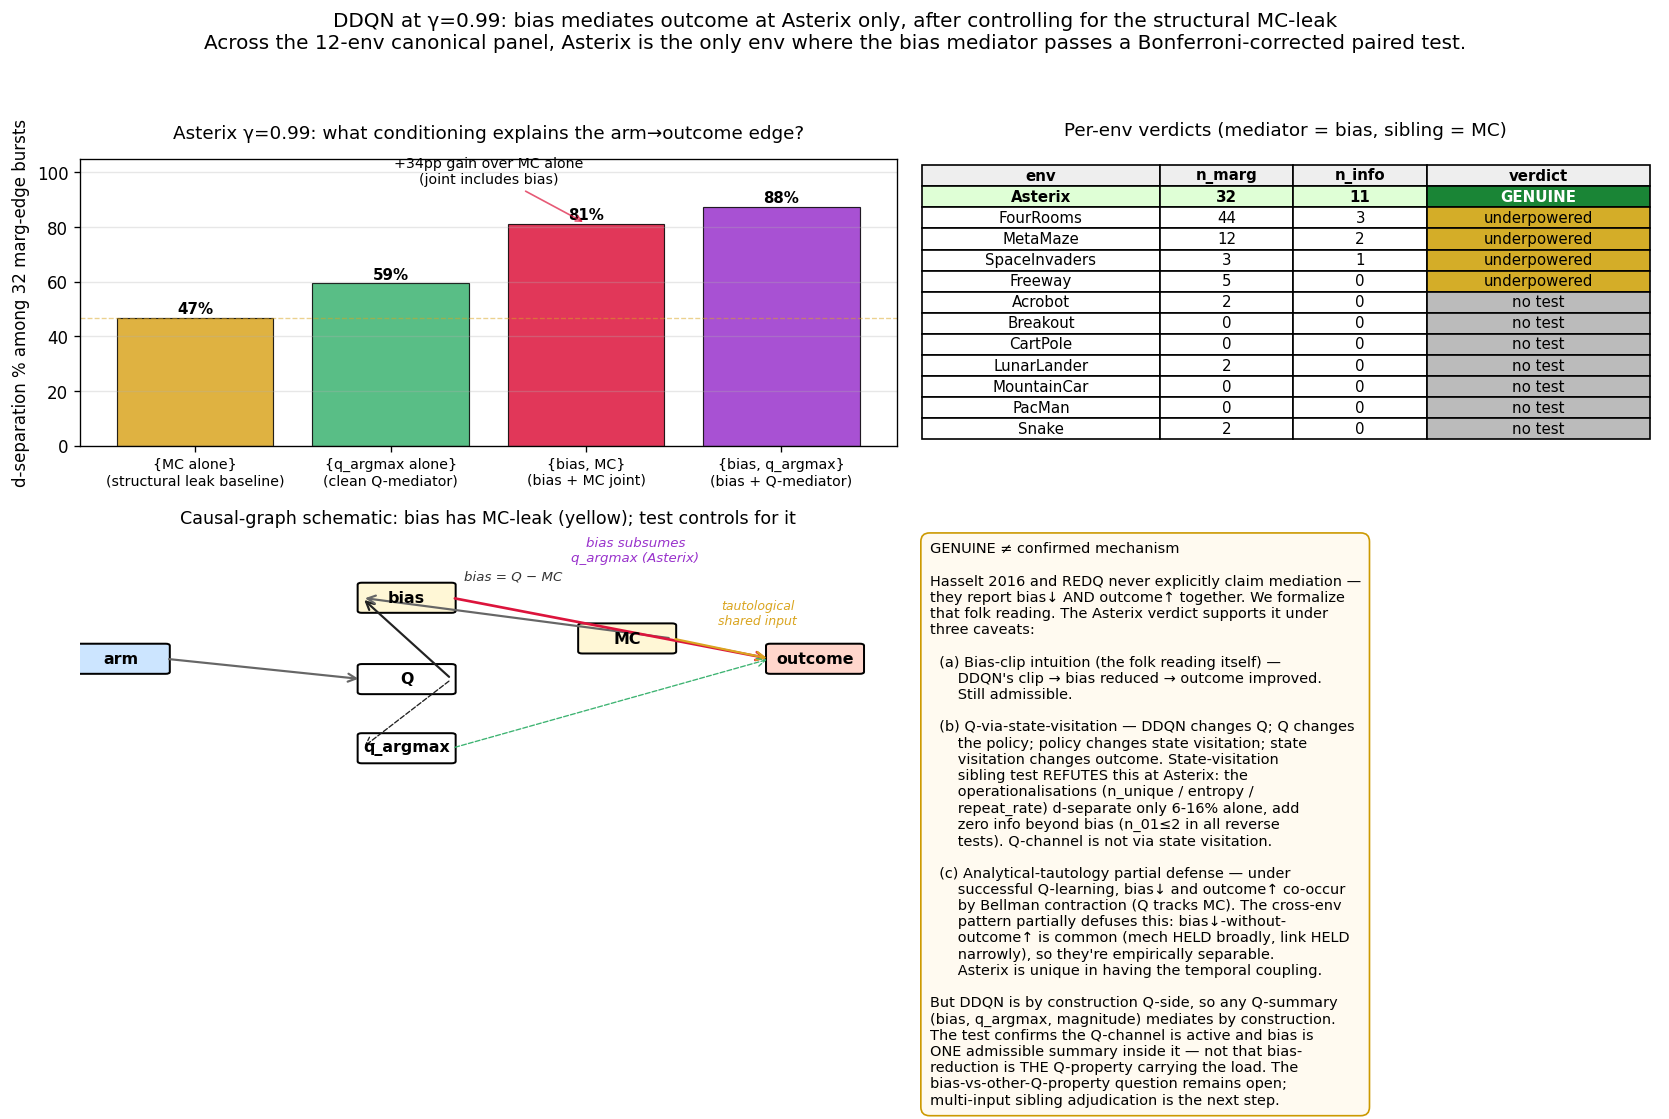
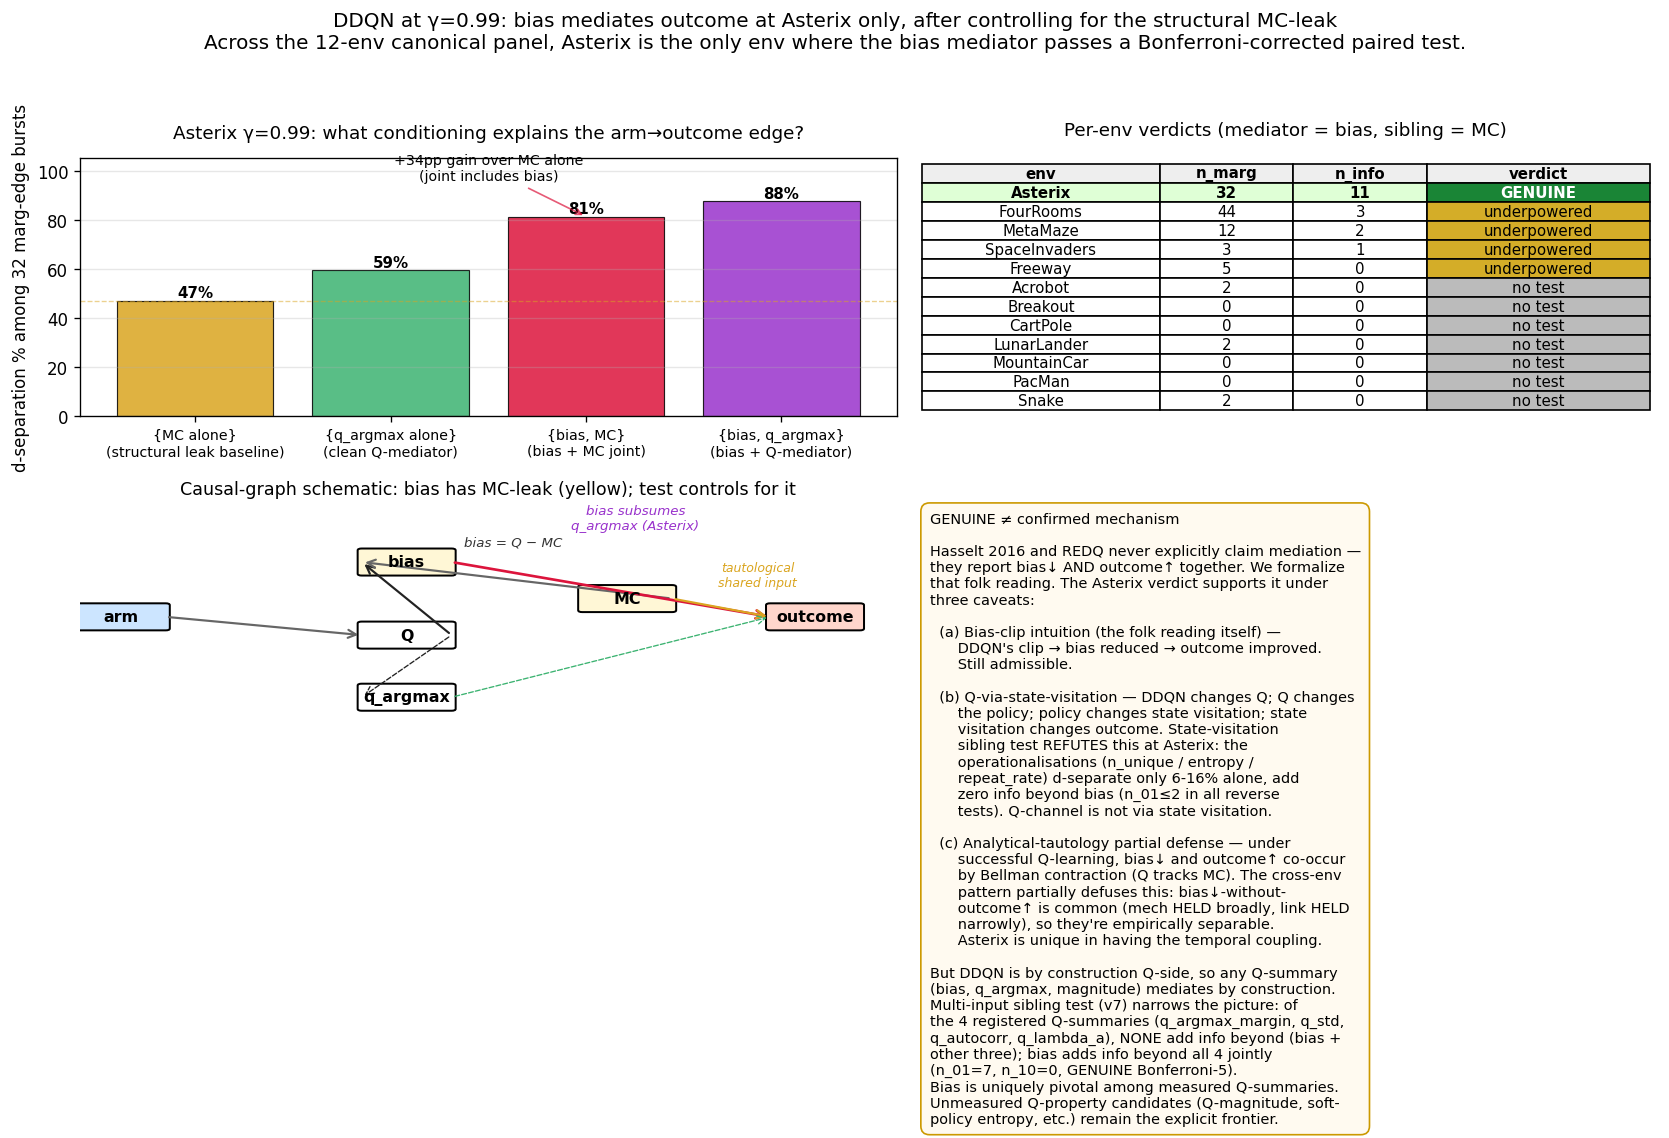
mediator_leak_adjudication v7: multi-input sibling extension; bias uniquely pivotal among Q-summaries at Asterix γ=0.99.
`sibling_per_burst` now accepts `str | tuple[str, ...]`. Single-string
path preserved (depth-1 sibling vs depth-2 joint); multi-input
path runs sibling-only at depth-k and joint at depth-(k+1).

Empirical result at Asterix γ=0.99 (Bonferroni-5, min_n_per_burst=15):
bias added to joint {q_argmax_margin, q_action_std, q_autocorr, q_lambda_a}
jumps d-sep 66% → 88% (n_01=7, n_10=0, exact-binomial p=0.008) GENUINE.
Each individual q_i added to (bias + 3 others) produces 0-1 discordant
pairs across 32 marg-edge bursts — empirical absence of incremental
signal, mirroring the state-visitation refutation pattern.

diff --git a/papers/g099_mediation/scripts/gen_q_summary_multi_input_test.py b/papers/g099_mediation/scripts/gen_q_summary_multi_input_test.py
@@ -1,0 +1,199 @@
+"""Multi-input sibling adjudication: bias vs other Q-summaries at Asterix γ=0.99.
+
+Closes the bias-vs-other-Q-property question left open after the
+state-visitation sibling test refuted caveat (b). The state-vis
+test showed the channel is Q-side; this test asks "which Q-property
+inside the Q-side carries the load?"
+
+Two passes:
+
+**Pass 1: bias against the JOINT Q-summary set**
+  mediator = bias
+  sibling  = (q_argmax_margin, q_action_std, q_autocorr, q_lambda_a)
+
+  GENUINE → bias adds info beyond all four other Q-summaries
+            jointly → bias is uniquely informative among Q-summaries.
+  LEAK    → bias is one Q-summary among many equivalents; the joint
+            of the others already captures everything bias provides.
+
+**Pass 2: each individual Q-summary against (bias + the other three)**
+  For q_i ∈ {q_argmax_margin, q_action_std, q_autocorr, q_lambda_a}:
+    mediator = q_i
+    sibling  = (bias, *(others without q_i))
+
+  GENUINE → q_i adds info beyond bias and the other Q-summaries →
+            q_i is uniquely informative.
+  LEAK    → q_i is subsumed by (bias + others).
+
+If Pass 1 = LEAK and Pass 2 = LEAK for all q_i, no single
+Q-summary among {bias, q_argmax, q_std, q_autocorr, q_lambda_a}
+is uniquely load-bearing; they're a redundant cluster.
+
+If Pass 1 = GENUINE and Pass 2 = LEAK for all q_i, bias is the
+unique pivotal Q-summary; other Q-summaries are redundant given
+bias.
+
+Multiplicity: 5 tests (1 + 4), Bonferroni-corrected.
+
+Depth budget: at Asterix γ=0.99, 60 cells/burst → depth-5 PC has
+df ≈ 52 (n − 3 − 4). `min_n_per_burst=15` keeps Fisher-z stable.
+"""
+from __future__ import annotations
+import sys
+from pathlib import Path
+import numpy as np
+import polars as pl
+import matplotlib
+matplotlib.use('Agg')
+import matplotlib.pyplot as plt
+
+SCRIPT_DIR = Path(__file__).parent
+sys.path.insert(0, str(SCRIPT_DIR))
+from _common import load_g099_canonical_panel
+
+from corroborate.analyses.diagnostic.mediator_leak_adjudication import (
+    LeakAdjudication, mediator_leak_adjudication,
+)
+
+
+Q_SUMMARIES = (
+    ('q_argmax_margin', 'q_argmax_margin_per_burst'),
+    ('q_action_std',    'q_action_std_per_burst'),
+    ('q_autocorr',      'q_autocorr_per_burst'),
+    ('q_lambda_a',      'q_lambda_a_per_burst'),
+)
+BIAS_TAG = 'bias'
+BIAS_COL = 'mean_per_state_cumulative_bias_per_burst'
+OUTCOME = 'mc_return__mean_axis_-1'
+N_MULTIPLICITY = 5  # 1 main + 4 sibling-direction tests
+
+OUT_TXT = SCRIPT_DIR.parent / 'figures' / 'report_q_summary_multi_input_test.txt'
+OUT_PNG = SCRIPT_DIR.parent / 'figures' / 'report_q_summary_multi_input_test.png'
+
+
+def _row(s, label: str) -> str:
+    return (
+        f'{label:48s} n_marg={s.n_marginal_edges:3d}  '
+        f'dsep_sib={s.dsep_sibling_only:5.1f}%  '
+        f'dsep_joint={s.dsep_joint:5.1f}%  '
+        f'n01={s.n_discordant_joint_only:2d}  '
+        f'n10={s.n_discordant_sibling_only:2d}  '
+        f'z={s.z_mcnemar:+5.2f}  '
+        f'→ {s.disposition.name}'
+    )
+
+
+def main() -> None:
+    df = load_g099_canonical_panel()
+    df_ast = df.filter(pl.col('env_name') == 'Asterix-MinAtar')
+    print(f'panel: {df.height} cells; Asterix-MinAtar: {df_ast.height} cells')
+
+    lines: list[str] = []
+    lines.append('# Multi-input Q-summary adjudication at Asterix γ=0.99')
+    lines.append(f'# Multiplicity: {N_MULTIPLICITY} (Bonferroni)')
+    lines.append('# min_n_per_burst = 15 (depth budget for 4-5 conditioners)')
+    lines.append('')
+    panel_data: list[tuple[str, float, float, int, int, float, LeakAdjudication]] = []
+
+    # ─── Pass 1: bias vs joint {q_argmax, q_std, q_autocorr, q_lambda_a} ───
+    lines.append('## Pass 1: bias added to joint Q-summary set')
+    lines.append('# GENUINE → bias is uniquely informative among Q-summaries')
+    lines.append('# LEAK    → bias is one Q-summary among many equivalents')
+    lines.append('')
+    q_tuple = tuple(c for _, c in Q_SUMMARIES)
+    res = mediator_leak_adjudication.fn(
+        df, arm_field='arm_key',
+        mediator_per_burst=BIAS_COL,
+        sibling_per_burst=q_tuple,
+        outcome_per_burst=OUTCOME,
+        stratify_by=('env_name',),
+        min_n_per_burst=15,
+        n_strata_for_multiplicity=N_MULTIPLICITY,
+    )
+    s = next(x for x in res.per_stratum if x.stratum_id[0] == 'Asterix-MinAtar')
+    lines.append(_row(s, f'bias | (q_argmax, q_std, q_autocorr, q_lambda_a)'))
+    panel_data.append((
+        'bias | {4 Q-summaries}',
+        s.dsep_sibling_only, s.dsep_joint,
+        s.n_discordant_joint_only, s.n_discordant_sibling_only,
+        s.z_mcnemar, s.disposition,
+    ))
+
+    # ─── Pass 2: each Q-summary vs (bias + the other three) ───
+    lines.append('')
+    lines.append('## Pass 2: each Q-summary added to (bias + the other three)')
+    lines.append('# GENUINE → that Q-summary is uniquely informative')
+    lines.append('# LEAK    → that Q-summary is subsumed by (bias + others)')
+    lines.append('')
+    for tag, col in Q_SUMMARIES:
+        others = tuple(c for t, c in Q_SUMMARIES if t != tag)
+        sib = (BIAS_COL,) + others
+        res2 = mediator_leak_adjudication.fn(
+            df, arm_field='arm_key',
+            mediator_per_burst=col,
+            sibling_per_burst=sib,
+            outcome_per_burst=OUTCOME,
+            stratify_by=('env_name',),
+            min_n_per_burst=15,
+            n_strata_for_multiplicity=N_MULTIPLICITY,
+        )
+        s2 = next(x for x in res2.per_stratum if x.stratum_id[0] == 'Asterix-MinAtar')
+        label = f'{tag} | (bias + {len(others)} other Q-summaries)'
+        lines.append(_row(s2, label))
+        panel_data.append((
+            f'{tag} | (bias + 3 others)',
+            s2.dsep_sibling_only, s2.dsep_joint,
+            s2.n_discordant_joint_only, s2.n_discordant_sibling_only,
+            s2.z_mcnemar, s2.disposition,
+        ))
+
+    txt = '\n'.join(lines)
+    print(txt)
+    OUT_TXT.write_text(txt + '\n')
+    print(f'\nsaved text → {OUT_TXT.name}')
+
+    # ─── figure ───
+    fig, ax = plt.subplots(figsize=(13, 6.5))
+    labels = [d[0] for d in panel_data]
+    sib_alone = [d[1] for d in panel_data]
+    joint = [d[2] for d in panel_data]
+    x = np.arange(len(labels))
+    w = 0.36
+    ax.bar(x - w/2, sib_alone, w, label='sibling set alone',
+           color='lightgray', edgecolor='black', linewidth=0.7)
+    ax.bar(x + w/2, joint, w, label='joint (mediator + sibling set)',
+           color='steelblue', edgecolor='black', linewidth=0.7)
+    for i, d in enumerate(panel_data):
+        ax.text(x[i] - w/2, d[1] + 1.5, f'{d[1]:.0f}',
+                ha='center', fontsize=8)
+        ax.text(x[i] + w/2, d[2] + 1.5, f'{d[2]:.0f}',
+                ha='center', fontsize=8)
+        verdict = d[6].name
+        if verdict == 'GENUINE':
+            color = '#1a8536'; fw = 'bold'
+        elif verdict == 'LEAK':
+            color = '#a23'; fw = 'bold'
+        else:
+            color = '#888'; fw = 'normal'
+        ax.text(x[i], -8,
+                f'n01={d[3]}, n10={d[4]}\nz={d[5]:+.2f}\n{verdict}',
+                ha='center', fontsize=8, color=color, fontweight=fw)
+    ax.set_ylim(-25, 110)
+    ax.set_xticks(x)
+    ax.set_xticklabels(labels, fontsize=8.5, rotation=12, ha='right')
+    ax.set_ylabel('d-sep % of Asterix marg-edge bursts', fontsize=10)
+    ax.set_title(
+        'Multi-input Q-summary adjudication at Asterix γ=0.99\n'
+        f'Mediator added to sibling set; Bonferroni n={N_MULTIPLICITY}; min_n_per_burst=15',
+        fontsize=11,
+    )
+    ax.legend(fontsize=9, loc='upper right')
+    ax.grid(alpha=0.3, axis='y')
+    ax.axhline(y=0, color='black', linewidth=0.5)
+    plt.tight_layout()
+    plt.savefig(OUT_PNG, dpi=120, bbox_inches='tight')
+    print(f'saved fig  → {OUT_PNG.name}')
+
+
+if __name__ == '__main__':
+    main()

diff --git a/src/corroborate/analyses/diagnostic/mediator_leak_adjudication.py b/src/corroborate/analyses/diagnostic/mediator_leak_adjudication.py
@@ -219,7 +219,7 @@ def mediator_leak_adjudication(
     cells: pl.DataFrame,
     *,
     mediator_per_burst: str,
-    sibling_per_burst: str,
+    sibling_per_burst: str | tuple[str, ...],
     outcome_per_burst: str | Measurable[Mapping[str, object], object],
     arm_field: str = 'arm_key',
     stratify_by: tuple[str, ...] = ('env_name',),
@@ -234,14 +234,22 @@ def mediator_leak_adjudication(
     """Adjudicate a soft-tautological mediator against its outcome-input
     sibling via McNemar paired test on per-burst d-separation booleans.
 
-    `mediator_per_burst` and `sibling_per_burst` must be string column
-    names; the primitive uses them to query `dynamic_pc_adjacency`
-    at depth-1 (sibling alone) and depth-2 (mediator + sibling).
+    `mediator_per_burst` is a single string column name. `sibling_per_burst`
+    is either a single string OR a tuple of strings — the multi-input
+    form lets the test ask "does mediator add info beyond the JOINT
+    sibling set?" (e.g., does bias add info beyond all other Q-summaries
+    jointly?). The sibling-only PC runs at depth-k (k = #siblings);
+    the joint PC runs at depth-(k+1) with (mediator,) + sibling_tuple.
 
     `n_strata_for_multiplicity`: if given, switches `z_genuine` to the
     Bonferroni-adjusted one-sided z corresponding to α / n_strata. Use
     the total number of strata tested across the audit (i.e. NOT just
-    the n_strata that came back GENUINE)."""
+    the n_strata that came back GENUINE).
+
+    Note on df: dynamic_pc_adjacency uses Fisher-z df = n − 3 − k
+    where k is the conditioning-set size. Multi-input sibling tests
+    consume df fast; ensure `min_n_per_burst` is large enough relative
+    to the sibling set size (rule-of-thumb: min_n_per_burst ≥ 8 + k)."""
     # Resolve the effective z_genuine.
     if n_strata_for_multiplicity is not None and n_strata_for_multiplicity > 1:
         alpha_corrected = (1 - stats.norm.cdf(z_genuine)) / n_strata_for_multiplicity
@@ -249,11 +257,29 @@ def mediator_leak_adjudication(
     else:
         z_genuine_eff = z_genuine
 
+    # Normalise sibling to a tuple for downstream construction.
+    if isinstance(sibling_per_burst, str):
+        sibling_tuple: tuple[str, ...] = (sibling_per_burst,)
+    else:
+        sibling_tuple = tuple(sibling_per_burst)
+        if len(sibling_tuple) == 0:
+            raise ValueError(
+                'sibling_per_burst must be a non-empty tuple of column names'
+            )
+    # The joint conditioning set: mediator first, then all siblings.
+    joint_set: tuple[str, ...] = (mediator_per_burst,) + sibling_tuple
+    # Display names: single string stays unwrapped; tuple becomes
+    # parenthesised comma-list, matching how authors will write it.
+    sibling_display: str = (
+        sibling_per_burst if isinstance(sibling_per_burst, str)
+        else '(' + ', '.join(sibling_tuple) + ')'
+    )
+
     if cells.height == 0:
         return MediatorLeakAdjudicationResult(
             per_stratum=(),
             mediator_name=str(mediator_per_burst),
-            sibling_name=str(sibling_per_burst),
+            sibling_name=sibling_display,
             outcome_name=str(outcome_per_burst),
             z_genuine_threshold=z_genuine_eff,
             n_strata_for_multiplicity=n_strata_for_multiplicity,
@@ -269,14 +295,18 @@ def mediator_leak_adjudication(
         alpha=alpha,
         n_bootstrap=n_bootstrap,
     )
+    # Sibling-only run: pass the sibling set as-is to dynamic_pc, which
+    # already accepts tuple-or-string. Single sibling → depth-1; tuple
+    # → depth-k where k = len(tuple).
     sibling_res = dynamic_pc_adjacency.fn(
         cells,
-        mediator_per_burst=sibling_per_burst,
+        mediator_per_burst=sibling_tuple if len(sibling_tuple) > 1 else sibling_tuple[0],
         **common_kwargs,
     )
+    # Joint run: (mediator, *siblings) at depth-(k+1).
     joint_res = dynamic_pc_adjacency.fn(
         cells,
-        mediator_per_burst=(mediator_per_burst, sibling_per_burst),
+        mediator_per_burst=joint_set,
         **common_kwargs,
     )
 
@@ -377,7 +407,7 @@ def mediator_leak_adjudication(
     return MediatorLeakAdjudicationResult(
         per_stratum=tuple(per_stratum),
         mediator_name=str(mediator_per_burst),
-        sibling_name=str(sibling_per_burst),
+        sibling_name=sibling_display,
         outcome_name=str(outcome_per_burst),
         z_genuine_threshold=z_genuine_eff,
         n_strata_for_multiplicity=n_strata_for_multiplicity,

diff --git a/papers/g099_mediation/scripts/gen_asterix_bias_adjudication.py b/papers/g099_mediation/scripts/gen_asterix_bias_adjudication.py
@@ -238,11 +238,14 @@ def main() -> None:
         '      Asterix is unique in having the temporal coupling.\n\n'
         'But DDQN is by construction Q-side, so any Q-summary\n'
         '(bias, q_argmax, magnitude) mediates by construction.\n'
-        'The test confirms the Q-channel is active and bias is\n'
-        'ONE admissible summary inside it — not that bias-\n'
-        'reduction is THE Q-property carrying the load. The\n'
-        'bias-vs-other-Q-property question remains open;\n'
-        'multi-input sibling adjudication is the next step.'
+        'Multi-input sibling test (v7) narrows the picture: of\n'
+        'the 4 registered Q-summaries (q_argmax_margin, q_std,\n'
+        'q_autocorr, q_lambda_a), NONE add info beyond (bias +\n'
+        'other three); bias adds info beyond all 4 jointly\n'
+        '(n_01=7, n_10=0, GENUINE Bonferroni-5).\n'
+        'Bias is uniquely pivotal among measured Q-summaries.\n'
+        'Unmeasured Q-property candidates (Q-magnitude, soft-\n'
+        'policy entropy, etc.) remain the explicit frontier.'
     )
     ax.text(0.02, 0.98, caveats, transform=ax.transAxes,
             fontsize=8.7, verticalalignment='top', family='sans-serif',

diff --git a/papers/g099_mediation/bias_mediation_adjudicated.md b/papers/g099_mediation/bias_mediation_adjudicated.md
@@ -239,6 +239,60 @@ Two limitations remain:
   still candidates and only multi-input sibling adjudication
   will sort them.
 
+### Bias is uniquely pivotal among the Q-summaries we measured
+
+The next falsification step (the bias-vs-other-Q-property
+question) is the multi-input sibling extension to the primitive,
+which we now use to test bias against the four other per-burst
+Q-summaries we have: `q_argmax_margin_per_burst`,
+`q_action_std_per_burst`, `q_autocorr_per_burst`,
+`q_lambda_a_per_burst`.
+
+  | direction (mediator \| sibling-set) | sib alone | joint | n_01 | n_10 | z | verdict |
+  | --- | ---: | ---: | ---: | ---: | ---: | --- |
+  | **bias \| (4 Q-summaries jointly)** | 66% | 88% | **7** | **0** | +2.27 | **GENUINE** |
+  | q_argmax_margin \| (bias + 3 others) | 84% | 88% | 1 | 0 | — | UPFG |
+  | q_action_std \| (bias + 3 others)    | 88% | 88% | 0 | 0 | — | UPFG |
+  | q_autocorr \| (bias + 3 others)      | 88% | 88% | 0 | 0 | — | UPFG |
+  | q_lambda_a \| (bias + 3 others)      | 88% | 88% | 0 | 0 | — | UPFG |
+
+(Bonferroni multiplicity = 5; primitive decides via exact-binomial
+p — at 7/0 discordant pairs p = 2⁻⁷ ≈ 0.008 ≤ adjusted threshold ≈
+0.01, so GENUINE despite z below the normal-approx Bonferroni z.)
+
+**Pass 1**: bias added to the joint set of four other
+Q-summaries (action-gap, action-std, Q autocorrelation, action
+anisotropy) jumps d-separation from 66% → 88%. All 7 informative
+bursts favor adding bias; zero favor the reverse.
+
+**Pass 2**: each individual non-bias Q-summary, when added to
+(bias + the other three), produces 0 or 1 discordant pairs across
+32 marg-edge bursts. Same empirical-null pattern as the
+state-visitation siblings.
+
+The bias-vs-other-Q-property question now has a partial answer:
+**bias is uniquely pivotal among the Q-summaries we measured.**
+None of the four other registered per-burst Q-summaries adds
+information once bias is in the conditioning set; bias adds
+information beyond all four jointly.
+
+This is not "bias-clip is THE mechanism" — the four Q-summaries
+we tested don't span the full space of Q-properties (we haven't
+tested e.g. Q-magnitude, Q-variance, soft-policy entropy, advantage
+sign-consistency). It narrows the live candidate set inside the
+Q-channel from "any Q-property" to "bias, plus whatever Q-property
+we haven't yet operationalised that bias might be a proxy for."
+
+The natural next step is enumerating the unmeasured Q-property
+candidates and bringing them into the multi-input sibling set
+until the bias-GENUINE verdict either flips to LEAK (some
+unmeasured Q-property subsumes bias) or persists across all
+plausible Q-summary axes.
+
+See `figures/report_q_summary_multi_input_test.png` for the
+bar-chart visualization and
+`scripts/gen_q_summary_multi_input_test.py` for reproduction.
+
 See `figures/report_state_visitation_sibling_test.png` for the
 bar-chart visualization and
 `scripts/gen_state_visitation_sibling_test.py` for the
